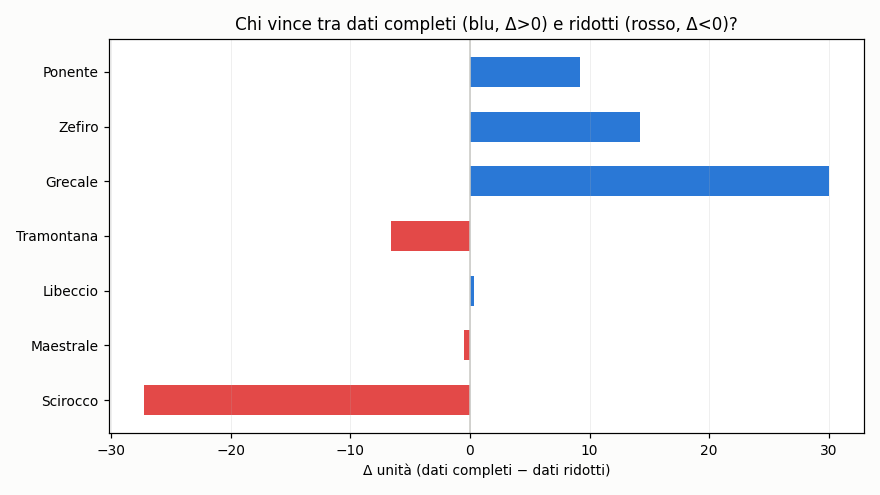
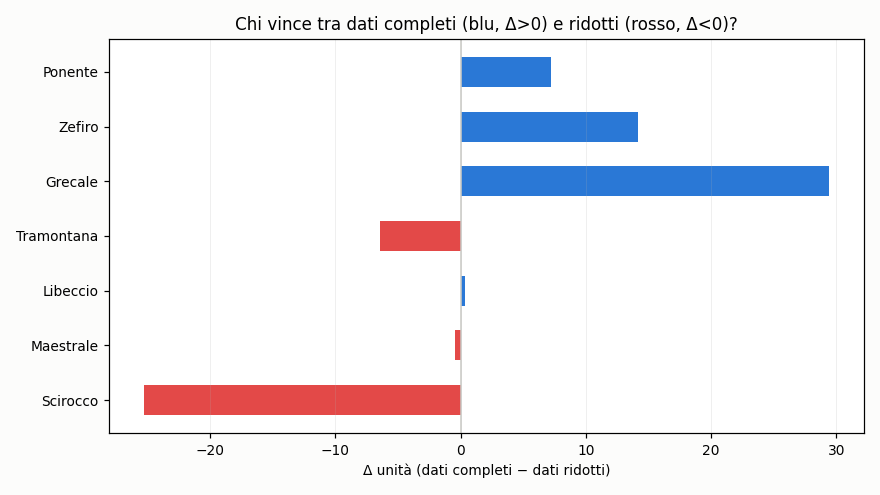
aggiornamento 2026-07-25 14:46 UTC

diff --git a/README.md b/README.md
@@ -37,9 +37,9 @@ scala in unità). Non indichiamo quale.
 
 ## Grafici
 
-![Coppie: dati completi vs ridotti](https://raw.githubusercontent.com/Kitem19/ippica-track-record/main/charts/equity_pairs.png?v=c47a13af)
+![Coppie: dati completi vs ridotti](https://raw.githubusercontent.com/Kitem19/ippica-track-record/main/charts/equity_pairs.png?v=865fe2d2)
 
-![Delta per coppia](https://raw.githubusercontent.com/Kitem19/ippica-track-record/main/charts/coppie_delta.png?v=e97f3962)
+![Delta per coppia](https://raw.githubusercontent.com/Kitem19/ippica-track-record/main/charts/coppie_delta.png?v=214f553e)
 
 ### Come leggere i grafici
 
@@ -56,34 +56,34 @@ scala in unità). Non indichiamo quale.
 
 _Poche giornate: numeri ancora rumorosi, si conclude a fine fase (31/7)._
 
-- **Scirocco**: dati ridotti avanti di 27,3u — qui gli extra non aiutano
+- **Scirocco**: dati ridotti avanti di 25,3u — qui gli extra non aiutano
 - **Maestrale**: in sostanziale pareggio — troppo presto per dire
 - **Libeccio**: in sostanziale pareggio — troppo presto per dire
-- **Tramontana**: dati ridotti avanti di 6,6u — qui gli extra non aiutano
-- **Grecale**: dati completi avanti di 30,0u
+- **Tramontana**: dati ridotti avanti di 6,5u — qui gli extra non aiutano
+- **Grecale**: dati completi avanti di 29,4u
 - **Zefiro**: dati completi avanti di 14,2u
-- **Ponente**: dati completi avanti di 9,2u
+- **Ponente**: dati completi avanti di 7,2u
 
 ## Classifica (conteggio ufficiale)
 
 | Sistema | Cassa (u) | P/L (u) | Selezioni | Escluse | Stato |
 |---|---|---|---|---|---|
-| Grecale | 29,8 | +9,8 | 285 | 4 | 🟢 |
-| Scirocco-B | 27,2 | +7,2 | 213 | 0 | 🟢 |
+| Grecale | 29,2 | +9,2 | 287 | 4 | 🟢 |
+| Scirocco-B | 25,2 | +5,2 | 215 | 0 | 🟢 |
 | Zefiro | 13,7 | -6,3 | 250 | 5 | 🟢 |
-| Ponente | 8,3 | -11,7 | 196 | 28 | 🟢 |
-| Tramontana-B | 6,3 | -13,7 | 316 | 0 | 🟢 |
-| Maestrale-B | 0,0 | -20,0 | 100 | 216 | 🛑 |
-| Scirocco | 0,0 | -20,1 | 80 | 225 | 🛑 |
-| Grecale-B | 0,0 | -20,2 | 137 | 156 | 🛑 |
-| Tramontana | 0,0 | -20,3 | 45 | 288 | 🛑 |
+| Ponente | 6,3 | -13,7 | 198 | 28 | 🟢 |
+| Tramontana-B | 6,2 | -13,8 | 318 | 0 | 🟢 |
+| Maestrale-B | 0,0 | -20,0 | 100 | 218 | 🛑 |
+| Scirocco | 0,0 | -20,1 | 80 | 227 | 🛑 |
+| Grecale-B | 0,0 | -20,2 | 137 | 158 | 🛑 |
+| Tramontana | 0,0 | -20,3 | 45 | 290 | 🛑 |
 | Zefiro-B | 0,0 | -20,5 | 143 | 59 | 🛑 |
-| Maestrale | 0,0 | -20,5 | 104 | 236 | 🛑 |
+| Maestrale | 0,0 | -20,5 | 104 | 238 | 🛑 |
 | Libeccio | 0,0 | -20,6 | 181 | 146 | 🛑 |
-| Libeccio-B | 0,0 | -20,9 | 119 | 160 | 🛑 |
-| Ponente-B | 0,0 | -21,0 | 63 | 78 | 🛑 |
+| Libeccio-B | 0,0 | -20,9 | 119 | 161 | 🛑 |
+| Ponente-B | 0,0 | -21,0 | 63 | 79 | 🛑 |
 
-_Aggiornato: 25/07 16:41_
+_Aggiornato: 25/07 16:46_
 ---
 *Nessuna delle informazioni qui pubblicate costituisce consiglio di gioco.
 Il gioco può causare dipendenza — 18+.*
